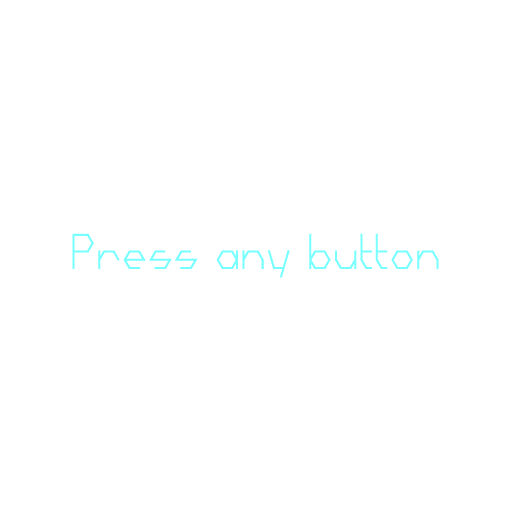
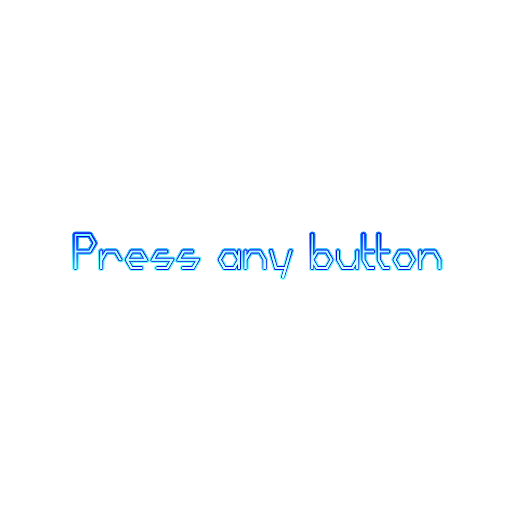
始まりの時ポーズ開けるの修正

Changed region(s): [[0.125, 0.4375, 0.875, 0.5625]]

diff --git a/A/BaseCrossDx11/Character.h b/A/BaseCrossDx11/Character.h
@@ -1103,6 +1103,8 @@ namespace basecross{
 
 		void OnCreate() override;
 		void OnUpdate() override;
+
+		bool GetFinish() { if (m_State >= 4) { return true; } else { return false; } }
 	};
 	//Abe20170609
 

diff --git a/A/BaseCrossDx11/TitleScene.cpp b/A/BaseCrossDx11/TitleScene.cpp
@@ -34,7 +34,7 @@ namespace basecross {
 			);
 		AddGameObject<PressSprite>(
 			Vector2(512, 512),
-			Vector2(0, -155)
+			Vector2(0, -190)
 			);
 		
 		//AddGameObject<InputCSV>();
